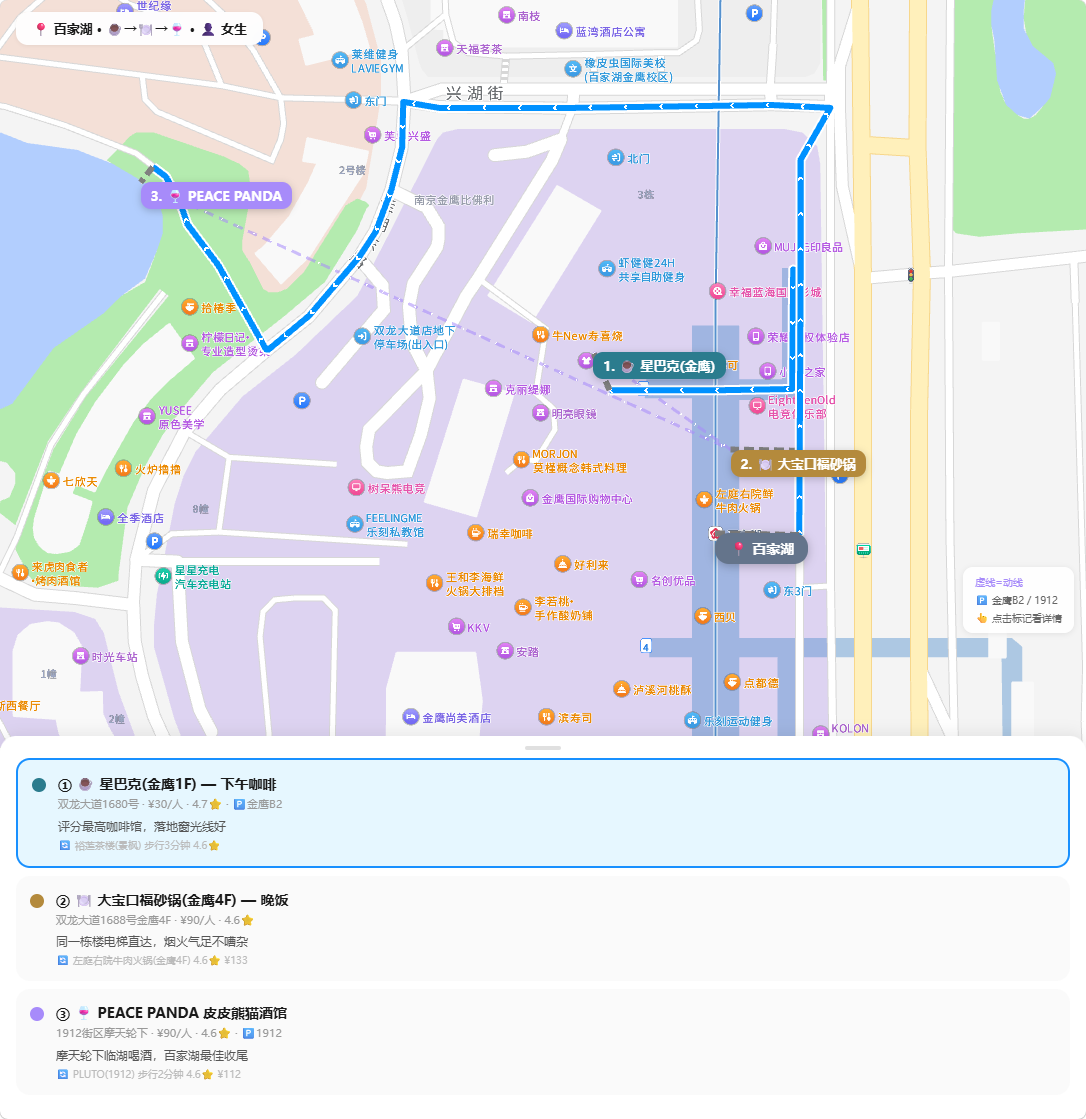
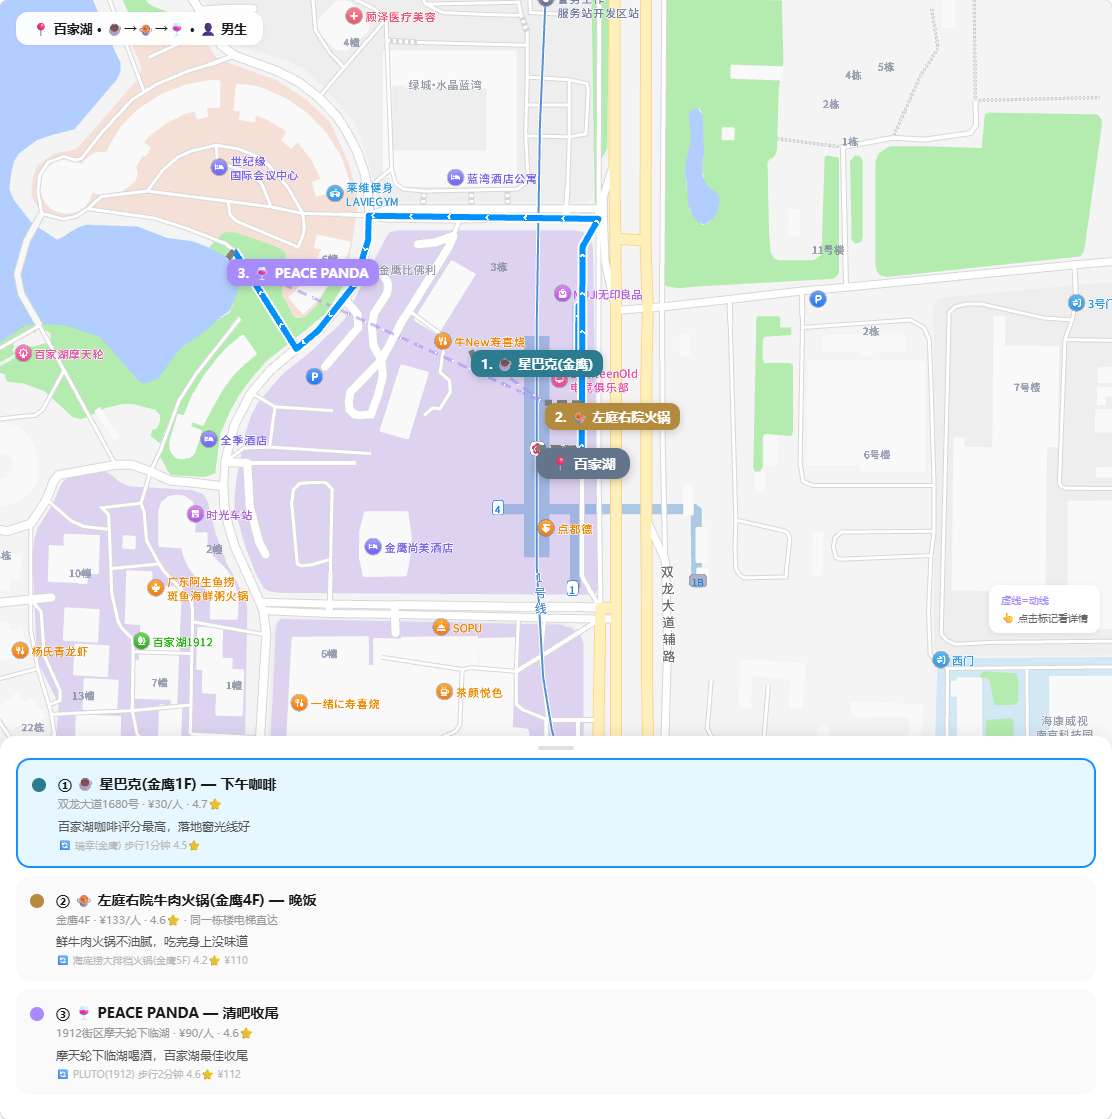
docs: 加效果演示截图 + 修正文件名拼写

diff --git a/README.md b/README.md
@@ -56,6 +56,32 @@
 🏆 如果只选一个：选湖畔咖啡馆——离双方都近，安静，靠窗有湖景
 ```
 
+### 效果演示
+
+**电脑端 · 决策地图**：推荐点 + 动线虚线 + 点击 Marker 弹详情 + 底部卡片
+
+<p align="center">
+  <img src="docs/screenshot-map.png" alt="电脑端决策地图" width="720">
+</p>
+
+**电脑端 · 邀请卡片**：粉色请帖风格 + 地图 + 动线时间轴 + 导航 CTA
+
+<p align="center">
+  <img src="docs/screenshot-invitation.png" alt="电脑端邀请卡片" width="720">
+</p>
+
+**手机端 · 地图 + 导航**：移动端全屏地图 + 底部抽屉面板 + 点击导航
+
+<p align="center">
+  <img src="docs/mobile-map-link.jpg" alt="手机端地图" width="360">
+</p>
+
+**手机端 · 邀请卡片**：微信直接打开 + 可拖拽面板 + 一键导航
+
+<p align="center">
+  <img src="docs/mobile-map-invitation.jpg" alt="手机端邀请卡片" width="360">
+</p>
+
 ---
 
 ## ✨ 核心功能